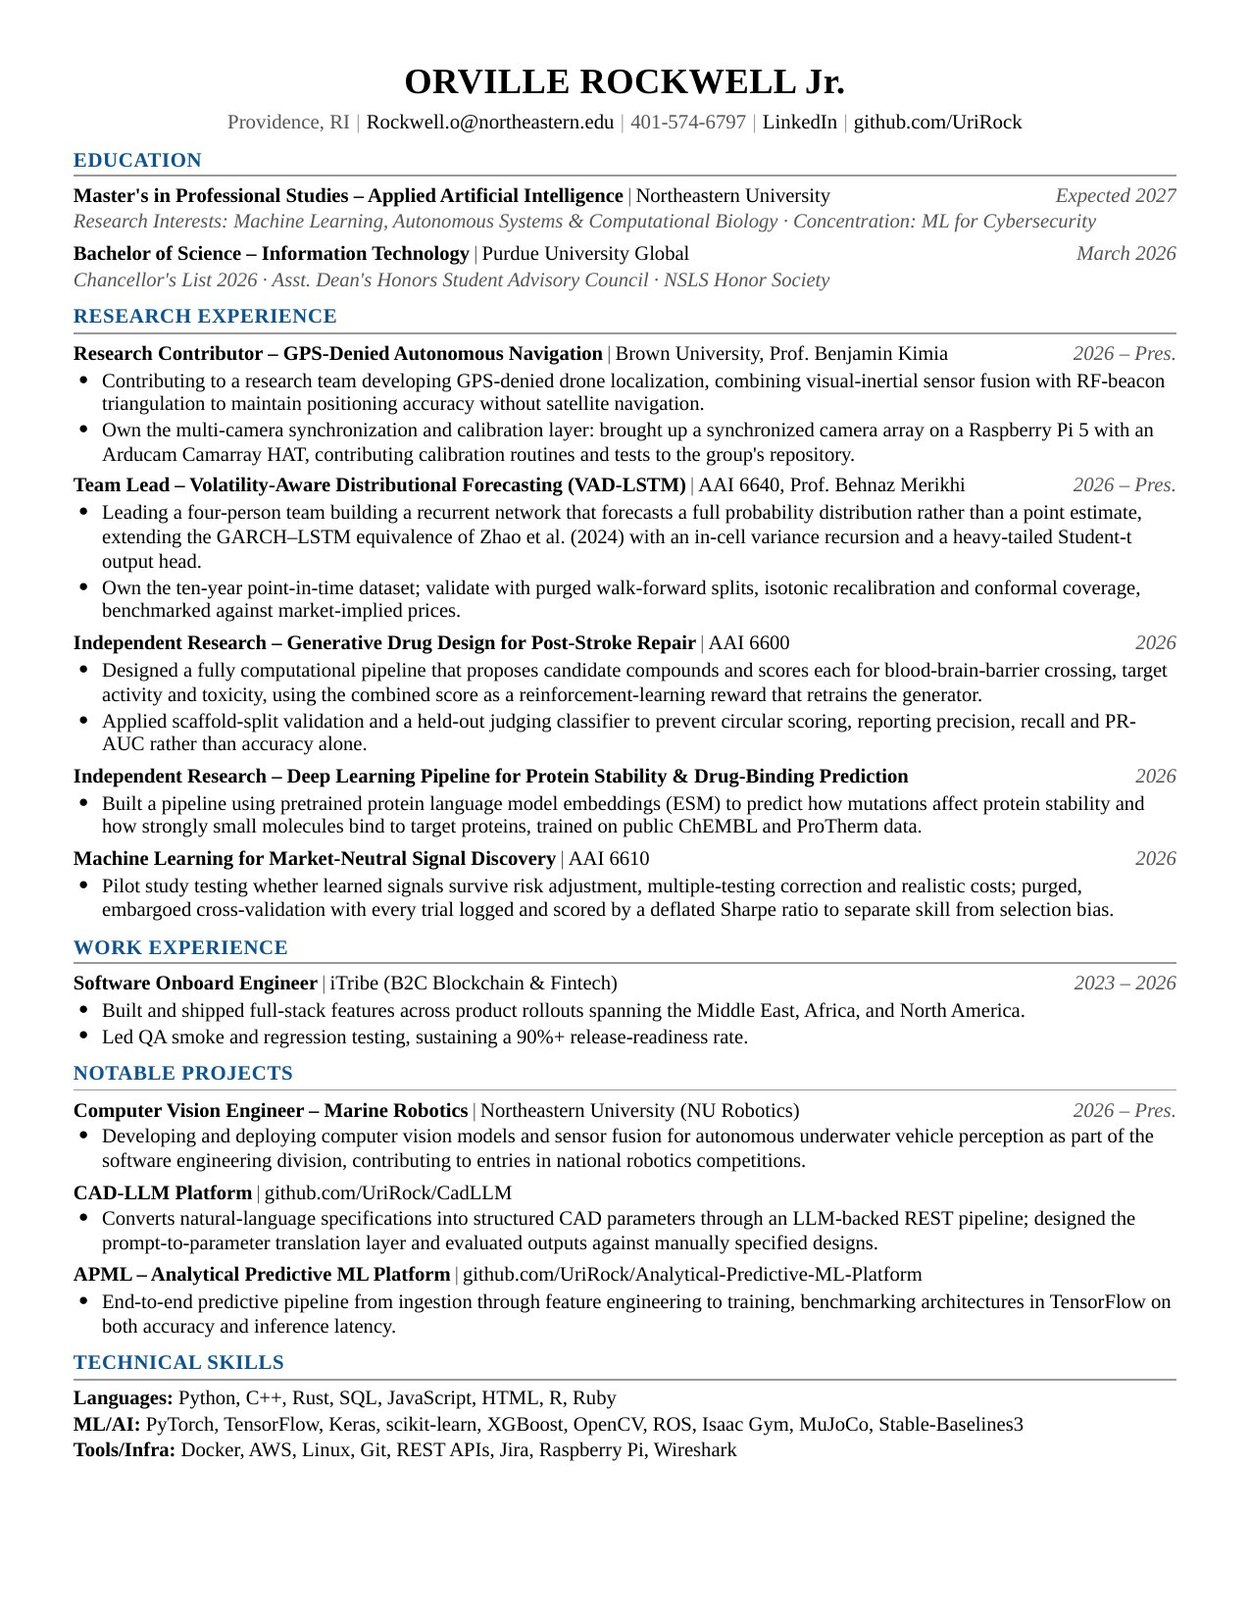
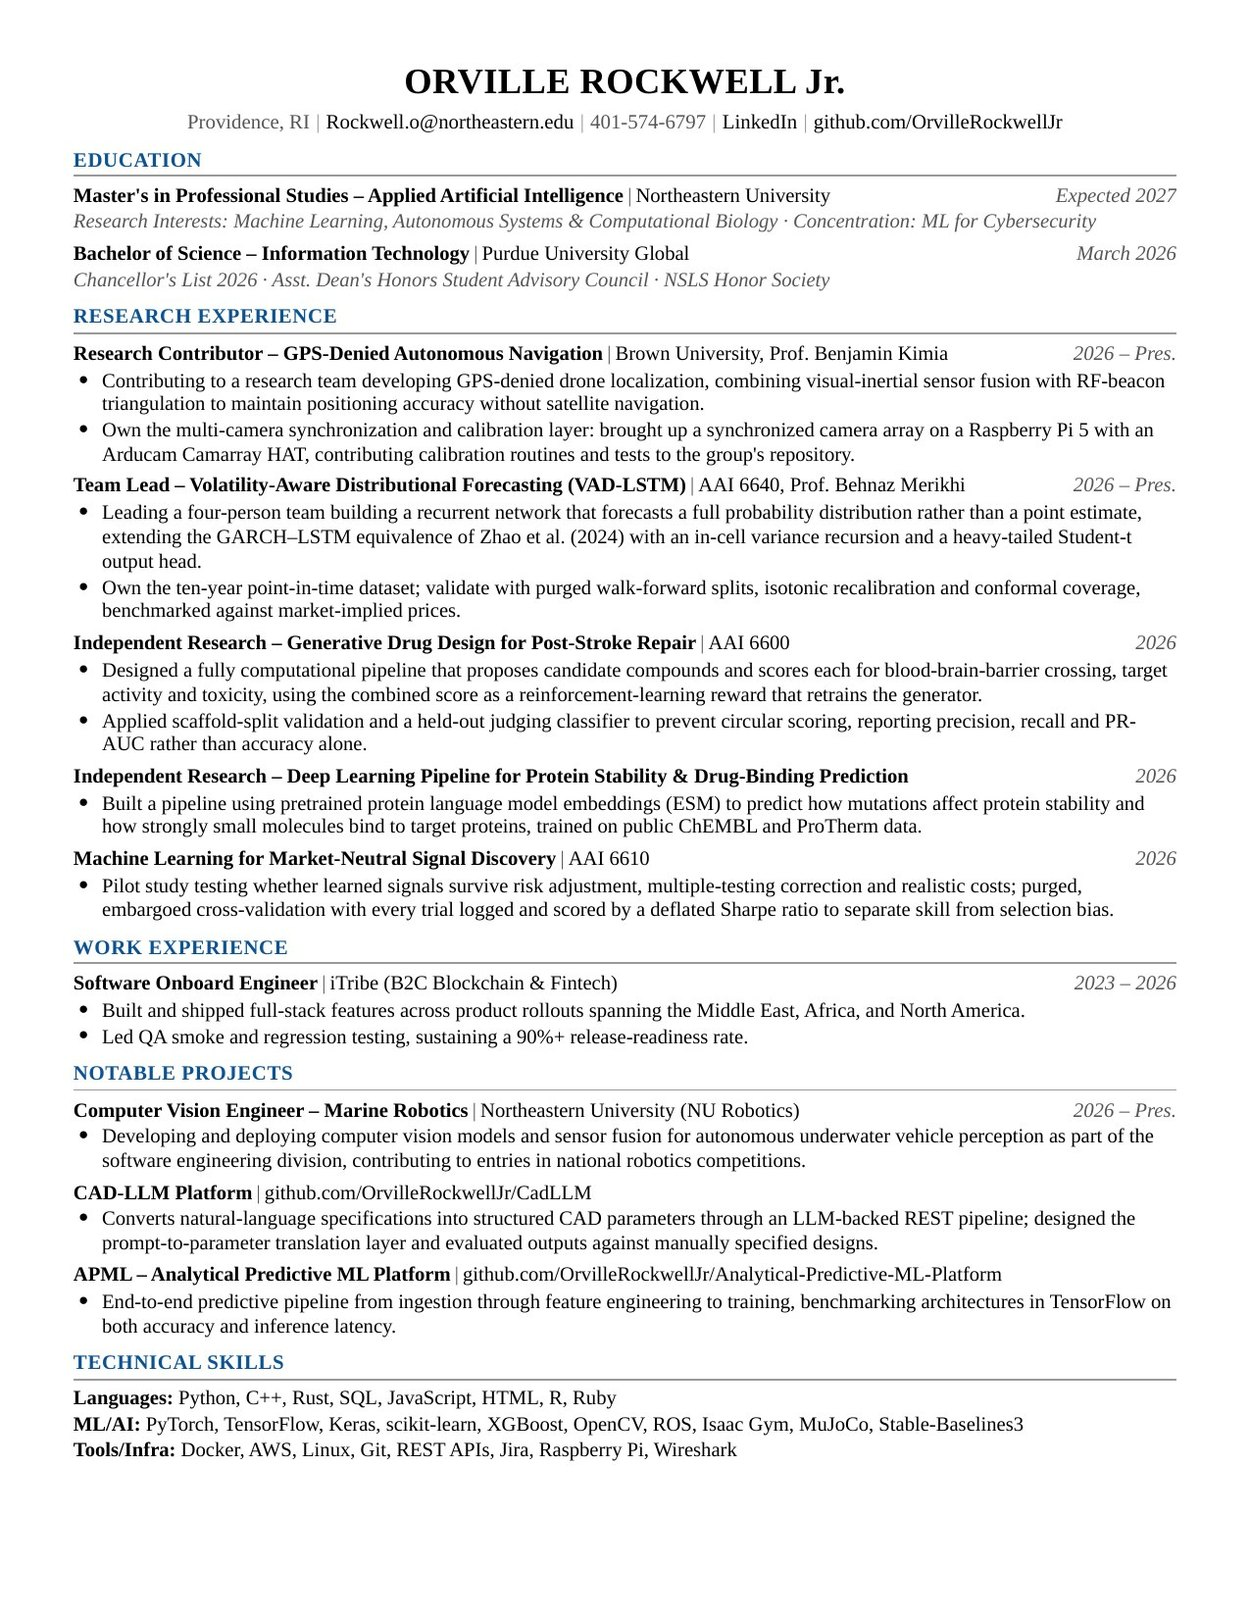
Update URLs for username change to OrvilleRockwellJr
Claude-Session: https://claude.ai/code/session_01LzMNsBo7o7bpnzQ2eLPyEP

Changed region(s): [[0.156, 0.0618, 0.8424, 0.0927], [0.468, 0.7726, 0.78, 0.8035], [0.312, 0.7108, 0.468, 0.7417]]

diff --git a/index.html b/index.html
@@ -7,27 +7,27 @@
 <meta name="description" content="Orville Rockwell Jr. is a Master's student in Applied Artificial Intelligence at Northeastern University, working on machine learning, autonomous systems, and computational biology.">
 <meta name="author" content="Orville Rockwell Jr.">
 <meta name="theme-color" content="#0A0C11">
-<link rel="canonical" href="https://UriRock.github.io/">
+<link rel="canonical" href="https://OrvilleRockwellJr.github.io/">
 <link rel="icon" href="favicon.svg" type="image/svg+xml">
 <link rel="apple-touch-icon" href="assets/img/apple-touch-icon.png">
 <meta property="og:type" content="profile">
 <meta property="og:site_name" content="Orville Rockwell Jr.">
 <meta property="og:title" content="Orville Rockwell Jr.">
 <meta property="og:description" content="Orville Rockwell Jr. is a Master's student in Applied Artificial Intelligence at Northeastern University, working on machine learning, autonomous systems, and computational biology.">
-<meta property="og:url" content="https://UriRock.github.io/">
-<meta property="og:image" content="https://UriRock.github.io/assets/img/og.png">
+<meta property="og:url" content="https://OrvilleRockwellJr.github.io/">
+<meta property="og:image" content="https://OrvilleRockwellJr.github.io/assets/img/og.png">
 <meta property="og:image:width" content="1200">
 <meta property="og:image:height" content="630">
 <meta name="twitter:card" content="summary_large_image">
 <meta name="twitter:title" content="Orville Rockwell Jr.">
 <meta name="twitter:description" content="Orville Rockwell Jr. is a Master's student in Applied Artificial Intelligence at Northeastern University, working on machine learning, autonomous systems, and computational biology.">
-<meta name="twitter:image" content="https://UriRock.github.io/assets/img/og.png">
+<meta name="twitter:image" content="https://OrvilleRockwellJr.github.io/assets/img/og.png">
 <script type="application/ld+json">{
   "@context": "https://schema.org",
   "@type": "Person",
   "name": "Orville Rockwell Jr.",
-  "url": "https://UriRock.github.io/",
-  "image": "https://UriRock.github.io/assets/img/profile.jpg",
+  "url": "https://OrvilleRockwellJr.github.io/",
+  "image": "https://OrvilleRockwellJr.github.io/assets/img/profile.jpg",
   "email": "mailto:Rockwell.o@northeastern.edu",
   "jobTitle": "Master's Student in Applied Artificial Intelligence",
   "description": "Orville Rockwell Jr. is a Master's student in Applied Artificial Intelligence at Northeastern University, working on machine learning, autonomous systems, and computational biology.",
@@ -35,7 +35,7 @@
   "affiliation": {"@type": "CollegeOrUniversity", "name": "Northeastern University"},
   "alumniOf": {"@type": "CollegeOrUniversity", "name": "Purdue University Global"},
   "knowsAbout": ["Machine Learning", "Autonomous Systems", "Computer Vision", "Computational Biology", "Sensor Fusion"],
-  "sameAs": ["https://github.com/UriRock"]
+  "sameAs": ["https://github.com/OrvilleRockwellJr"]
 }</script>
 <link rel="preconnect" href="https://fonts.googleapis.com">
 <link rel="preconnect" href="https://fonts.gstatic.com" crossorigin>
@@ -218,7 +218,7 @@ body.locked{overflow:hidden}
         <p class="about">I'm a Master's student in Applied Artificial Intelligence at <strong>Northeastern University</strong>, concentrating in Machine Learning for Cybersecurity. My work sits where learning systems meet the physical world: I contribute to GPS-denied drone navigation research in <strong>Prof. Benjamin Kimia's</strong> computer vision group at <strong>Brown</strong>, build perception software for Northeastern's NUWave underwater ROV, and develop generative models for drug discovery. Before graduate school I earned a B.S. in Information Technology from Purdue University Global (Chancellor's List) and spent roughly five years as a software engineer across iTribe, RICI and MySudra.</p>
         <div class="buttons">
           <a class="btn primary" href="mailto:Rockwell.o@northeastern.edu"><svg viewBox="0 0 24 24" fill="none" stroke="currentColor" stroke-width="2" stroke-linecap="round" stroke-linejoin="round"><rect x="3" y="5" width="18" height="14" rx="2"/><path d="m3 7 9 6 9-6"/></svg>Email</a>
-          <a class="btn" href="https://github.com/UriRock" target="_blank" rel="noopener"><svg viewBox="0 0 24 24" fill="currentColor"><path d="M12 2C6.48 2 2 6.58 2 12.25c0 4.52 2.87 8.35 6.84 9.7.5.1.68-.22.68-.49l-.01-1.9c-2.78.62-3.37-1.21-3.37-1.21-.46-1.18-1.11-1.49-1.11-1.49-.9-.63.07-.62.07-.62 1 .07 1.53 1.05 1.53 1.05.89 1.56 2.34 1.11 2.91.85.09-.66.35-1.11.63-1.37-2.22-.26-4.56-1.14-4.56-5.07 0-1.12.39-2.03 1.03-2.75-.1-.26-.45-1.3.1-2.71 0 0 .84-.28 2.75 1.05a9.4 9.4 0 0 1 5 0c1.91-1.33 2.75-1.05 2.75-1.05.55 1.41.2 2.45.1 2.71.64.72 1.03 1.63 1.03 2.75 0 3.94-2.34 4.81-4.57 5.06.36.32.68.94.68 1.9l-.01 2.82c0 .27.18.59.69.49A10.26 10.26 0 0 0 22 12.25C22 6.58 17.52 2 12 2Z"/></svg>GitHub</a>
+          <a class="btn" href="https://github.com/OrvilleRockwellJr" target="_blank" rel="noopener"><svg viewBox="0 0 24 24" fill="currentColor"><path d="M12 2C6.48 2 2 6.58 2 12.25c0 4.52 2.87 8.35 6.84 9.7.5.1.68-.22.68-.49l-.01-1.9c-2.78.62-3.37-1.21-3.37-1.21-.46-1.18-1.11-1.49-1.11-1.49-.9-.63.07-.62.07-.62 1 .07 1.53 1.05 1.53 1.05.89 1.56 2.34 1.11 2.91.85.09-.66.35-1.11.63-1.37-2.22-.26-4.56-1.14-4.56-5.07 0-1.12.39-2.03 1.03-2.75-.1-.26-.45-1.3.1-2.71 0 0 .84-.28 2.75 1.05a9.4 9.4 0 0 1 5 0c1.91-1.33 2.75-1.05 2.75-1.05.55 1.41.2 2.45.1 2.71.64.72 1.03 1.63 1.03 2.75 0 3.94-2.34 4.81-4.57 5.06.36.32.68.94.68 1.9l-.01 2.82c0 .27.18.59.69.49A10.26 10.26 0 0 0 22 12.25C22 6.58 17.52 2 12 2Z"/></svg>GitHub</a>
           <a class="btn" href="cv/Orville_Rockwell_CV.pdf" download="Orville_Rockwell_CV.pdf" target="_blank" rel="noopener"><svg viewBox="0 0 24 24" fill="none" stroke="currentColor" stroke-width="2" stroke-linecap="round" stroke-linejoin="round"><path d="M14 3v4a1 1 0 0 0 1 1h4"/><path d="M17 21H7a2 2 0 0 1-2-2V5a2 2 0 0 1 2-2h7l5 5v11a2 2 0 0 1-2 2Z"/><path d="M9 13h6M9 17h4"/></svg>CV</a>
           <a class="btn" href="https://www.linkedin.com/in/orville-rockwell-jr-92806528a" target="_blank" rel="noopener"><svg viewBox="0 0 24 24" fill="currentColor"><path d="M20.45 20.45h-3.56v-5.57c0-1.33-.03-3.04-1.85-3.04-1.85 0-2.14 1.45-2.14 2.94v5.67H9.35V9h3.41v1.56h.05c.47-.9 1.63-1.85 3.36-1.85 3.6 0 4.27 2.37 4.27 5.45v6.29ZM5.34 7.43a2.07 2.07 0 1 1 0-4.14 2.07 2.07 0 0 1 0 4.14Zm1.78 13.02H3.55V9h3.57v11.45ZM22.22 0H1.77C.79 0 0 .77 0 1.73v20.54C0 23.22.79 24 1.77 24h20.45c.98 0 1.78-.78 1.78-1.73V1.73C24 .77 23.2 0 22.22 0Z"/></svg>LinkedIn</a>
         </div>
@@ -409,7 +409,7 @@ body.locked{overflow:hidden}
           <div class="body">
             <span class="kicker">Software &bull; 2026</span>
             <h3>CAD-LLM Platform</h3>
-            <p class="meta">Independent project &middot; <a href="https://github.com/UriRock/CadLLM" target="_blank" rel="noopener">CadLLM repository</a></p>
+            <p class="meta">Independent project &middot; <a href="https://github.com/OrvilleRockwellJr/CadLLM" target="_blank" rel="noopener">CadLLM repository</a></p>
             <p class="sum">Turns a natural-language specification into structured CAD parameters through a language-model-backed REST pipeline, so a non-specialist can describe a part and get a usable design back. I designed the prompt-to-parameter translation layer and evaluated outputs against manually specified designs.</p>
             <div class="chips"><span>Python</span><span>REST APIs</span><span>LLM integration</span></div>
           </div>
@@ -434,7 +434,7 @@ body.locked{overflow:hidden}
           <div class="body">
             <span class="kicker">Software &bull; 2025</span>
             <h3>APML: Analytical Predictive ML Platform</h3>
-            <p class="meta">Independent project &middot; <a href="https://github.com/UriRock/Analytical-Predictive-ML-Platform" target="_blank" rel="noopener">APML repository</a></p>
+            <p class="meta">Independent project &middot; <a href="https://github.com/OrvilleRockwellJr/Analytical-Predictive-ML-Platform" target="_blank" rel="noopener">APML repository</a></p>
             <p class="sum">An end-to-end predictive pipeline, from data ingestion through feature engineering to model training, that surfaces usable signal from raw tabular data. Multiple architectures are benchmarked in TensorFlow on both accuracy and inference latency, so the chosen model is defensible on more than one axis.</p>
             <div class="chips"><span>TensorFlow</span><span>scikit-learn</span><span>Pandas</span></div>
           </div>
@@ -459,7 +459,7 @@ body.locked{overflow:hidden}
             <button class="copy" type="button">Copy</button>
           </div>
         </div>
-        <p class="where">Providence, Rhode Island &middot; <a href="https://github.com/UriRock" target="_blank" rel="noopener">github.com/UriRock</a> &middot; <a href="https://www.linkedin.com/in/orville-rockwell-jr-92806528a" target="_blank" rel="noopener">LinkedIn</a></p>
+        <p class="where">Providence, Rhode Island &middot; <a href="https://github.com/OrvilleRockwellJr" target="_blank" rel="noopener">github.com/OrvilleRockwellJr</a> &middot; <a href="https://www.linkedin.com/in/orville-rockwell-jr-92806528a" target="_blank" rel="noopener">LinkedIn</a></p>
       </div>
     </div>
   </section>

diff --git a/README.md b/README.md
@@ -1,6 +1,6 @@
 # Orville Rockwell Jr. — Academic Website
 
-Live at **https://UriRock.github.io**
+Live at **https://OrvilleRockwellJr.github.io**
 
 A static site. No build step, no dependencies, no framework — plain HTML and CSS with one
 small inline script. Every file in this repo is served as-is.
@@ -55,10 +55,10 @@ domain — Namecheap `.me`, Name.com, and `.TECH` are all listed. To use one:
 
 1. Add a `CNAME` file containing only the domain, e.g. `orvillerockwell.me`
 2. At the registrar, add four `A` records for `@` → `185.199.108.153`, `185.199.109.153`,
-   `185.199.110.153`, `185.199.111.153`, and a `CNAME` for `www` → `UriRock.github.io`
+   `185.199.110.153`, `185.199.111.153`, and a `CNAME` for `www` → `OrvilleRockwellJr.github.io`
 3. Settings → Pages → enter the domain → tick **Enforce HTTPS** once the cert issues
 4. Update the URLs in `index.html` (canonical, Open Graph, Twitter, JSON-LD), `robots.txt`
-   and `sitemap.xml` from `UriRock.github.io` to the new domain
+   and `sitemap.xml` from `OrvilleRockwellJr.github.io` to the new domain
 
 ## Local preview
 
